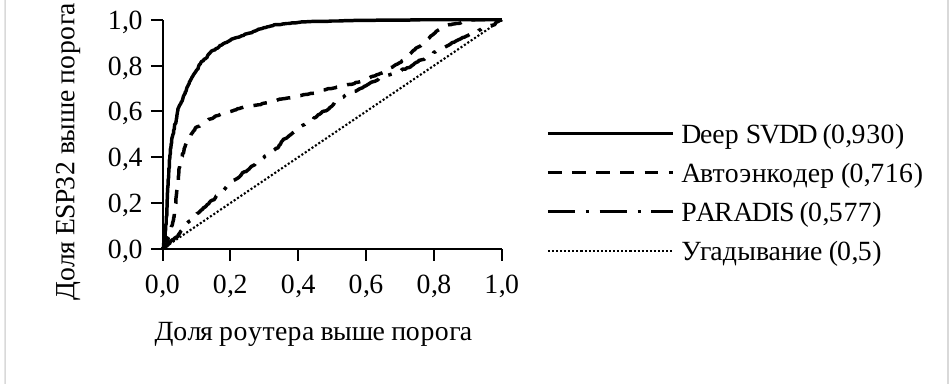
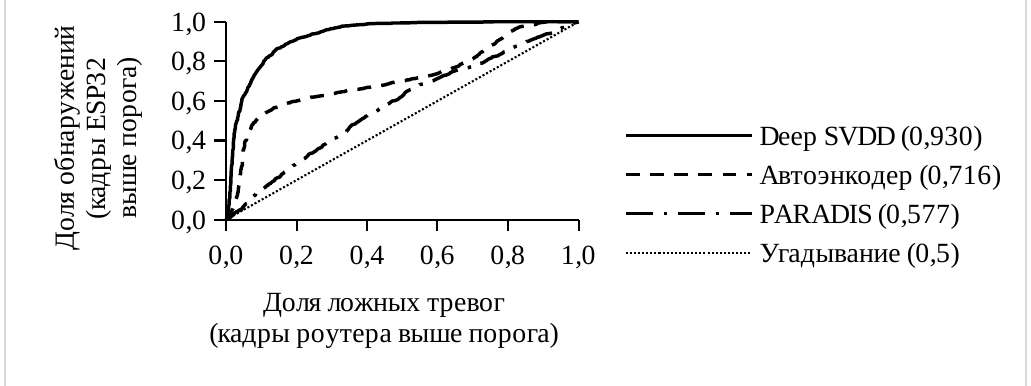
Статья: пояснение осей рисунка 1 прямо в подписях осей (решение автора), название с переносом после двоеточия и обычным дефисом в WI-FI
Claude-Session: https://claude.ai/code/session_01D2gEwEtZbH7TnLruCtscax

diff --git a/Статья/Текст статьи.md b/Статья/Текст статьи.md
@@ -160,13 +160,15 @@ dev. board — [[Вывод W9ZVQNQF#^o-w9zvqnqf-5|↗ А s0c0]] [[Вывод W9
 отклонение по 10 обучениям; наименьшая нижняя граница 0,850), у автоэнкодера 0,719 ± 0,006 (0,690), у PARADIS
 0,577 (интервалы 0,557–0,595)
 [[Вывод W9ZVQNQF#^o-w9zvqnqf-20|↗ Б s1c1]] [[Вывод W9ZVQNQF#^o-w9zvqnqf-29|↗ В s1c1]] [[Вывод W9ZVQNQF#^o-w9zvqnqf-11|↗ А s1c1]]. На рис. 1 [[#^u3-4|↗ рисунок]] показаны ROC-кривые
-этого варианта; для Deep SVDD и автоэнкодера взято первое из 10 обучений (AUC 0,930 и 0,716)
+этого варианта (для Deep SVDD и автоэнкодера взято первое из 10 обучений)
 [[Вывод 2MQPIXTU#^o-2mqpixtu-85|↗ повтор А]] [[Вывод 2MQPIXTU#^o-2mqpixtu-86|↗ повтор Б]] [[Вывод 2MQPIXTU#^o-2mqpixtu-87|↗ повтор В]] [[Код roc_v4.py|↗ roc_v4.py]]
 [[Показание 9K4WBJ3W#^t-9k4wbj3w-29|↗ решение автора: кривые]]. ^u3-3
 
 ![[Рисунок 1.png]]
 Рисунок: оценки кадров out/roc_v4_T2_s1c1.npz (вложение к [[Вывод 2MQPIXTU]]), диаграмма Word — [[Код roc_chart.py|↗ roc_chart.py]];
-в подписях — AUC повтора, совпадающие с v4 до последнего знака. ^u3-4
+в подписях — AUC повтора, совпадающие с v4 до последнего знака. Подписи осей — пояснение прямо на осях по указанию
+автора [[Показание MKDV5WBX#^t-mkdv5wbx-6|↗ замечание: оси непонятны]] [[Показание MKDV5WBX#^t-mkdv5wbx-9|↗ решение: пояснение на осях]]: точка кривой — один порог, по горизонтали доля
+ложных тревог (кадры роутера выше порога), по вертикали доля обнаружений (кадры ESP32 выше порога) [[An introduction to ROC analysis#^343efdiu-3-jpd37saj|↗ Fawcett 2006, с. 3]] [[An introduction to ROC analysis#^343efdiu-2-qqfmxthb|↗ Fawcett 2006, с. 2]] [[An introduction to ROC analysis#^343efdiu-2-7w6epjwx|↗ Fawcett 2006, с. 2]] [[An introduction to ROC analysis#^343efdiu-2-6tgjdc8a|↗ Fawcett 2006, с. 2]] [[An introduction to ROC analysis#^343efdiu-2-bsmhhhg8|↗ Fawcett 2006, с. 2]] [[An introduction to ROC analysis#^343efdiu-3-j8p67jg4|↗ Fawcett 2006, с. 3]]. ^u3-4
 
 Рисунок 1 — ROC-кривые для записи dev. board с обоими контролями (в скобках — AUC) ^u3-5
 

diff --git a/Доказательства/Показания/Показание MKDV5WBX.md b/Доказательства/Показания/Показание MKDV5WBX.md
@@ -1,0 +1,23 @@
+# Показание MKDV5WBX: Показание автора: замечания к рисунку, названию и ссылкам (2026-10-22)
+
+Оригинал — [запись в Zotero](zotero://select/library/items/MKDV5WBX).
+
+Вопрос (Claude): нет — замечания автора к статье после правок редактора (2026-10-22). ^t-mkdv5wbx-0
+
+Ответ (дословно): ^t-mkdv5wbx-1
+
+Я не смог из текста статьи в obsidian перейти к картинке. Было бы неплохо доделать ссылки и вставить картинку прямо в текст в obsidian, чтобы было более наглядно. Ещё в названии в слове Wi-Fi вместо - почему-то квадратик. Ещё в zotero осталось старое название. В заключении снова появились ссылки на источники - повторю, что это недопустимо. Можно ссылаться в нашем внутреннем тексте, но в итоговый вариант эти ссылки не должны попадать ^t-mkdv5wbx-2
+
+Вопрос (Claude): нет — замечания автора после исправления (2026-10-22). ^t-mkdv5wbx-4
+
+Ответ (дословно): ^t-mkdv5wbx-5
+
+- Остался квадратиком. Диаграмма выглядит хорошо, она выглядела хорошо и в прошлой версии. Но даже я не очень понимаю, что означают оси, а в новой версии стало ещё непонятнее. Нужно вернуть понятные обозначения осей и добавить небольшое пояснение по этому поводу ↩ [[Текст статьи#^u3-4|Текст статьи ^u3-4]] ^t-mkdv5wbx-6
+
+Вопрос (Claude): пояснение к осям (4 строки) не помещается в 4 страницы; варианты — диаграмма 4 см и короткое название таблицы, сократить пояснение или сократить другой текст. ^t-mkdv5wbx-8
+
+Ответ (дословно): Добавь короткие пояснения прямо в сами оси. ↩ [[Текст статьи#^u3-4|Текст статьи ^u3-4]] ^t-mkdv5wbx-9
+
+**Происхождение и пояснения:**
+
+Дата: 2026-10-22. Сессия Claude Code 91f5068f-ec61-464d-b3f2-702b9149b47b. ^t-mkdv5wbx-11

diff --git a/Источники/An introduction to ROC analysis.md b/Источники/An introduction to ROC analysis.md
@@ -3,7 +3,22 @@
 Источник Zotero: [343EFDIU](zotero://select/library/items/343EFDIU). Цитаты — выделения в PDF. Сгенерировано — не править вручную.
 
 «ROC graphs are two-dimensional graphs in which tp rate is plotted on the Y axis and fp rate is plotted on the X axis» — с. 2 [↗ PDF](zotero://open-pdf/library/items/7SDFQTKR?page=2&annotation=QQFMXTHB)
-Используется в коде: [[Код roc_chart.py#^c-dc67a5|roc_chart.py:33]] ^343efdiu-2-qqfmxthb
+Используется в коде: [[Код roc_chart.py#^c-dc67a5|roc_chart.py:33]]; в заметках: [[Текст статьи#^u3-4|Текст статьи ^u3-4]] ^343efdiu-2-qqfmxthb
+
+«The false positive rate (also called false alarm rate)» — с. 2 [↗ PDF](zotero://open-pdf/library/items/7SDFQTKR?page=2&annotation=7W6EPJWX)
+в заметках: [[Текст статьи#^u3-4|Текст статьи ^u3-4]] ^343efdiu-2-7w6epjwx
+
+«also called hit rate and recall» — с. 2 [↗ PDF](zotero://open-pdf/library/items/7SDFQTKR?page=2&annotation=6TGJDC8A)
+в заметках: [[Текст статьи#^u3-4|Текст статьи ^u3-4]] ^343efdiu-2-6tgjdc8a
+
+«one point in ROC space is better than another if it is to the northwest (tp rate is higher, fp rate is lower, or both) of the first» — с. 2 [↗ PDF](zotero://open-pdf/library/items/7SDFQTKR?page=2&annotation=BSMHHHG8)
+в заметках: [[Текст статьи#^u3-4|Текст статьи ^u3-4]] ^343efdiu-2-bsmhhhg8
+
+«The diagonal line y = x represents the strategy of randomly guessing a class» — с. 3 [↗ PDF](zotero://open-pdf/library/items/7SDFQTKR?page=3&annotation=J8P67JG4)
+в заметках: [[Текст статьи#^u3-4|Текст статьи ^u3-4]] ^343efdiu-3-j8p67jg4
+
+«if the classifier output is above the threshold, the classifier produces a Y, else a N. Each threshold value produces a different point in ROC space» — с. 3 [↗ PDF](zotero://open-pdf/library/items/7SDFQTKR?page=3&annotation=JPD37SAJ)
+в заметках: [[Текст статьи#^u3-4|Текст статьи ^u3-4]] ^343efdiu-3-jpd37saj
 
 «These are necessary in order to correctly handle sequences of equally scored instances» — с. 6 [↗ PDF](zotero://open-pdf/library/items/7SDFQTKR?page=6&annotation=637Q8WCT)
 Используется в коде: [[Код roc_chart.py#^c-f81311|roc_chart.py:32]] ^343efdiu-6-637q8wct

diff --git a/Доказательства/Код/Код roc_chart.py.md b/Доказательства/Код/Код roc_chart.py.md
@@ -110,9 +110,10 @@ def chart_blobs(series, width, height, xtitle, ytitle):
         ax.tick_labels.number_format, ax.tick_labels.number_format_is_linked = "0.0", False
         ax.format.line.color.rgb = RGBColor(0, 0, 0)
         ax.has_title = True
-        ax.axis_title.text_frame.text = title
-        r = ax.axis_title.text_frame.paragraphs[0].runs[0]
-        r.font.size, r.font.bold, r.font.name = Pt(10), False, "Times New Roman"
+        ax.axis_title.text_frame.text = title           # «\n» — вторая строка подписи
+        for para in ax.axis_title.text_frame.paragraphs:
+            for r in para.runs:
+                r.font.size, r.font.bold, r.font.name = Pt(10), False, "Times New Roman"
     part = gf.chart_part
     return part.blob, part.chart_workbook.xlsx_part.blob
 

diff --git a/Доказательства/Код/Код check_citations.py.md b/Доказательства/Код/Код check_citations.py.md
@@ -200,6 +200,8 @@ def main():
             continue
         for name, bid in WIKI.findall(without_code(text)):
             total += 1
+            if not bid and "." in name and any(VAULT.rglob(name)):   # вложение (рисунок): файл есть в хранилище
+                continue
             if name not in names or (bid and bid not in blocks[name]):
                 fail(f"{p.relative_to(VAULT)}: битая ссылка [[{name}#^{bid}]]")
     ok(f"внутренние ссылки: {total} проверены")
